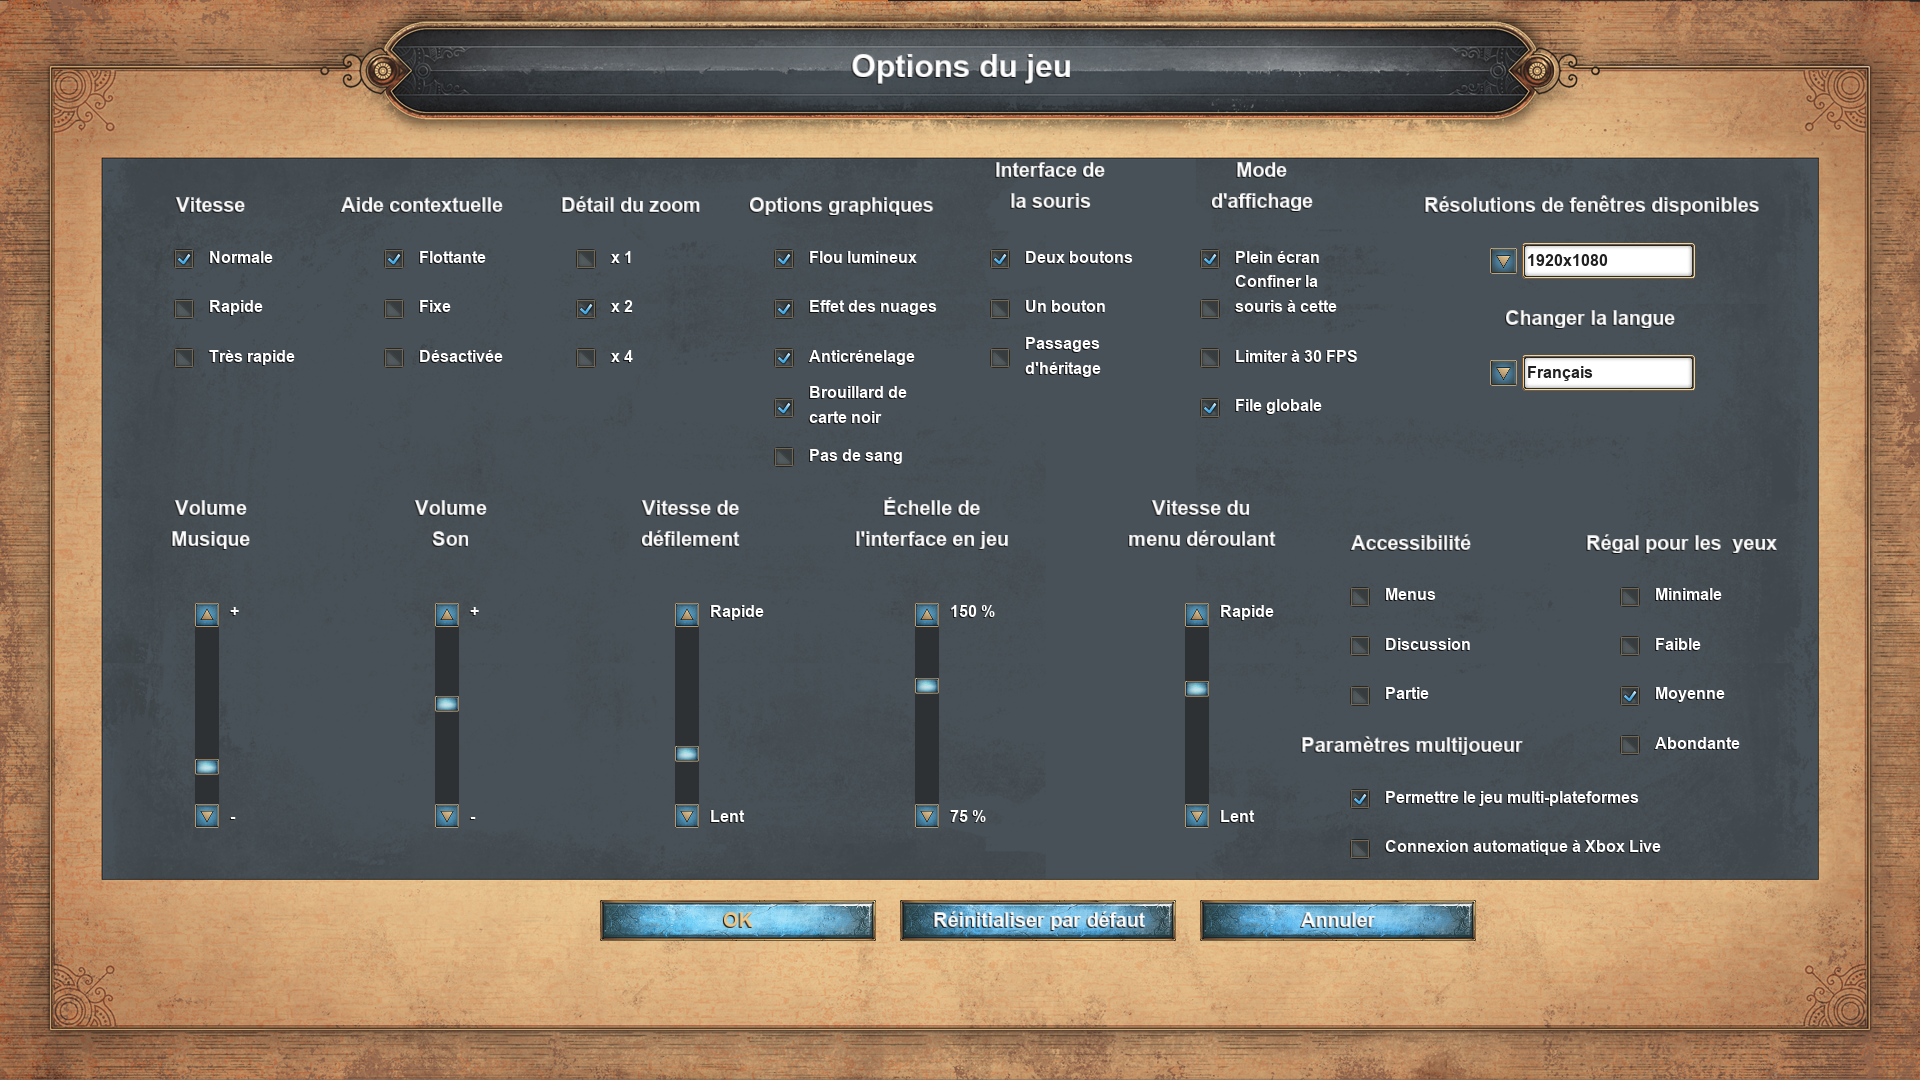
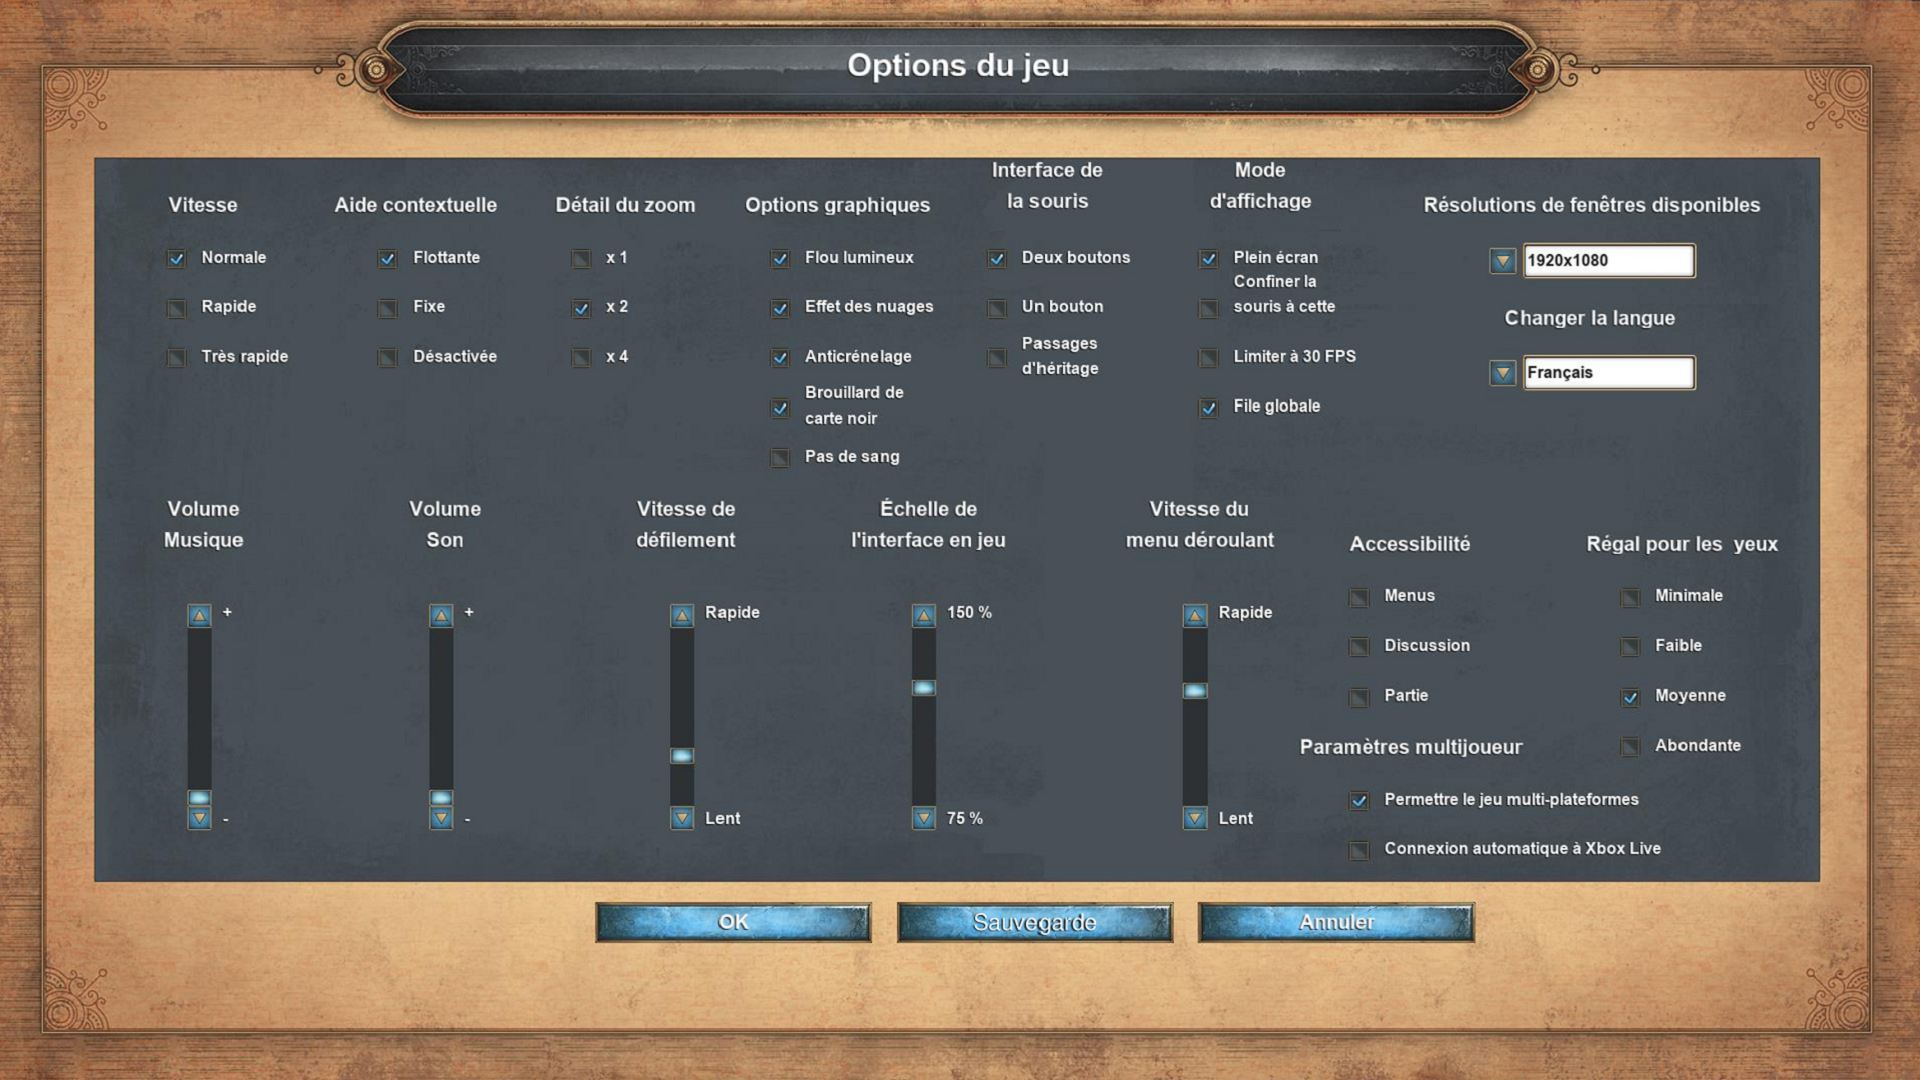
changement écrans démarrage et option

diff --git a/game/ecranOptions.py b/game/ecranOptions.py
@@ -3,6 +3,9 @@ import sys
 from .utils import *
 from .definitions import *
 from pygame.locals import *
+#from .ecranDemarrage import StartScreen
+from .definitions import *
+
 
 class Options:
     click = False
@@ -11,24 +14,69 @@ class Options:
         self.clock = clock
         self.width, self.height = self.screen.get_size()
 
-    def options(self): #accès à la page d'options ----->>>>> NON COMMENCÉE
+    def options(self): #accès à la page d'options
+        aff = 1
         self.playing = True
         while self.playing:
+
             self.screen.fill((0,0,0))
+
+            if (aff==1):
+                afficher_image(self.screen, 'assets/ecran_options.png', -100)
+                image = pygame.image.load('assets/ecran_options.png').convert_alpha()
+                self.screen.blit(image, (0, 0))
+            elif (aff==2):
+                afficher_image(self.screen, 'assets/ecran_options2.png', -100)
+                image = pygame.image.load('assets/ecran_options2.png').convert_alpha()
+                self.screen.blit(image, (0, 0))
+
+
  
             draw_text(self.screen, 'Options', 30, WHITE, (20, 20))
+            mx, my = pygame.mouse.get_pos()  # récupération des clics de souris
+
+            button_ok = pygame.Rect(600, 900, 280, 40)  # les boutons (ici, invisibles) -> bouton ok
+            button_save = pygame.Rect(900, 900, 280, 40)
+            button_normal = pygame.Rect(170, 250, 15, 15)
+            button_fast = pygame.Rect(170, 350, 15, 15)
+
+            if button_ok.collidepoint((mx, my)): #zone de collision des boutons et action quand cliqué
+                if click:
+                    ecran_demarrage = StartScreen(self.screen, self.clock)
+                    ecran_demarrage.ecran_demarrage()
+            #if button_save.collidepoint((mx, my)):
+                #if click:
+                    #fonction sauvegarde david
+            if button_normal.collidepoint((mx, my)):
+                if click:
+                    aff = 1
+                    CURRENT_SPEED = "normal"
+            if button_fast.collidepoint((mx, my)):
+                if click:
+                    aff = 2
+                    CURRENT_SPEED = "fast"
+
+
+            # dessin des boutons pour s'assurer de leur bonne position
+            #commentez les 3 lignes pour enlever les rectangles jaunes
+            #pygame.draw.rect(self.screen, (255, 215, 50), button_ok)
+            #pygame.draw.rect(self.screen, (255, 215, 50), button_save)
+            #pygame.draw.rect(self.screen, (255, 215, 50), button_fast)
+            # pygame.draw.rect(self.screen, (255, 215, 50), button_normal)
+
+            click = False
             for event in pygame.event.get():
-                if event.type == QUIT:
+                if event.type == pygame.QUIT:
                     pygame.quit()
                     sys.exit()
                 if event.type == KEYDOWN:
                     if event.key == K_ESCAPE:
-                        self.playing = False
-                        '''
-                        from .ecranDemarrage import StartScreen
-                        ecranDemarrage = StartScreen(self.screen, self.clock)
-                        ecranDemarrage.ecran_demarrage()
-                        '''
+                        pygame.quit()
+                        sys.exit()
+                if event.type == MOUSEBUTTONDOWN:
+                    if event.button == 1:
+                        click = True
+
         
             pygame.display.update()
             self.clock.tick(60)

diff --git a/game/ecranDemarrage.py b/game/ecranDemarrage.py
@@ -19,14 +19,15 @@ class StartScreen:
         while self.playing:
  
             self.screen.fill((0,0,0)) #arrière plan
-            
-            afficher_image(self.screen, 'assets/ecran_demarrage.png', -100) #Image de AoE
+
+            image = pygame.image.load('assets/ecran_demarrage.png').convert_alpha()
+            self.screen.blit(image, (0,0)) #Image de AoE
             draw_text(self.screen, 'Main Menu', 30, WHITE, (5,5))
             mx, my = pygame.mouse.get_pos() #récupération des clics de souris
 
         
-            button_1 = pygame.Rect(165, 447, 280, 40) #les boutons (ici, invisibles) -> bouton jouer
-            button_2 = pygame.Rect(165, 635, 280, 40) # -> bouton options
+            button_1 = pygame.Rect(265, 447, 280, 40) #les boutons (ici, invisibles) -> bouton jouer
+            button_2 = pygame.Rect(265, 635, 280, 40) # -> bouton options
         
             if button_1.collidepoint((mx, my)): #zone de collision des boutons et action quand cliqué
                 if click:
@@ -37,7 +38,7 @@ class StartScreen:
                     options.options()
 
             #dessin des boutons pour s'assurer de leur bonne position
-            #pygame.draw.rect(self.screen, (255, 215, 50), button_1) 
+            #pygame.draw.rect(self.screen, (255, 215, 50), button_1)
             #pygame.draw.rect(self.screen, (255, 215, 50), button_2)
 
         

diff --git a/main.py b/main.py
@@ -34,7 +34,7 @@ def main():
     while running:
 
         # start menu goes here
-        #startscreen.ecran_demarrage()
+        startscreen.ecran_demarrage()
         while playing:
             # game loop here
             game.run()
